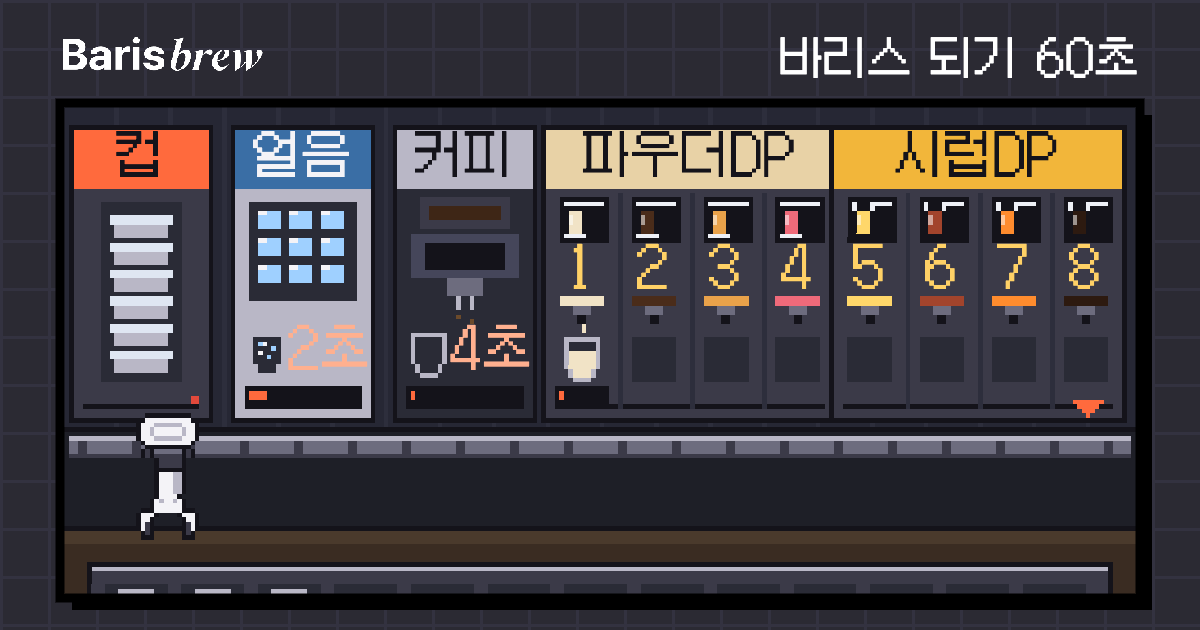
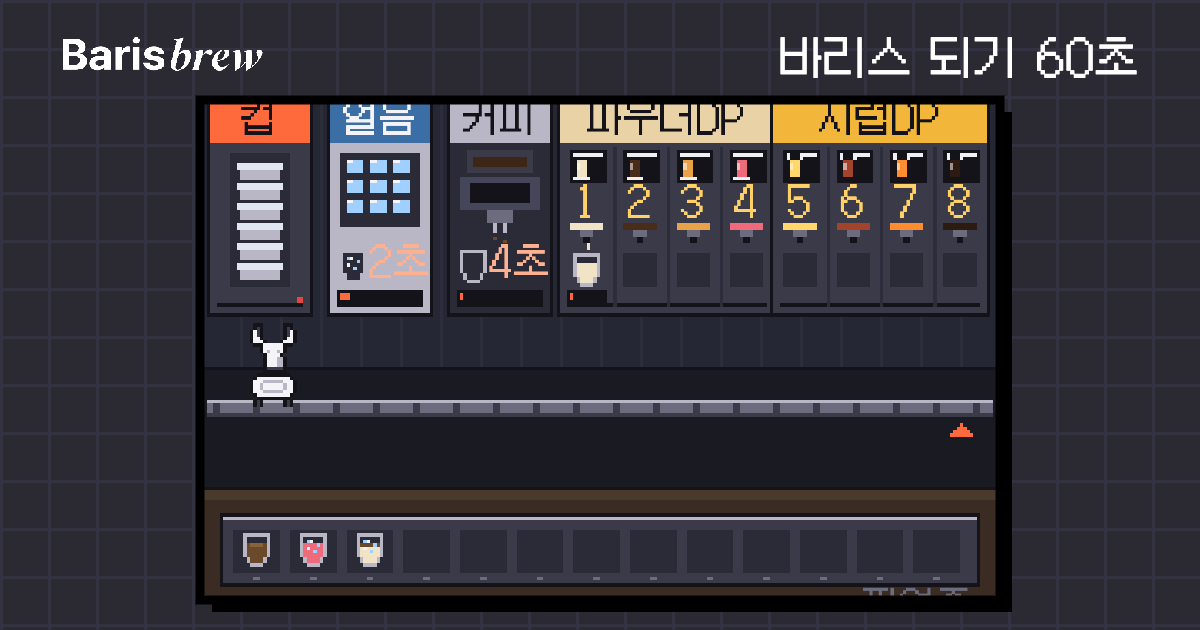
팔 포즈(기계는 위·픽업존은 아래)와 기계·레일·픽업존 간격
Claude-Session: https://claude.ai/code/session_01AAc1fRwvLSDh1RRvPRweCr

diff --git a/baris-game/index.html b/baris-game/index.html
@@ -244,7 +244,7 @@
 <canvas id="cv" width="1080" height="1350" style="display:none"></canvas>
 
 <script type="module">
-import { createGame, tick, moveTo, moveLeft, moveRight, action, serve, atStation, isBusy, matchRecipe, compatible, nextStep, patienceRatio, grade, remark, STATIONS, STATION_X, STATION_LABEL, INGREDIENTS, ING_KEYS, TIMES, newCup, isIngStation, DIFFICULTY } from './game.js?v=20261009c';
+import { createGame, tick, moveTo, moveLeft, moveRight, action, serve, atStation, isBusy, matchRecipe, compatible, nextStep, patienceRatio, grade, remark, STATIONS, STATION_X, STATION_LABEL, INGREDIENTS, ING_KEYS, TIMES, newCup, isIngStation, DIFFICULTY } from './game.js?v=20261009d';
 
 const $ = (id) => document.getElementById(id);
 const isPC = matchMedia('(hover:hover) and (pointer:fine)').matches;
@@ -257,7 +257,7 @@ const STEP_KO = (k) => k === 'ice' ? '얼음' : k === 'shot' ? '커피' : k === 
 
 /* ---------- 팔레트 · 픽셀 그리기 ---------- */
 const P = { K:'#14131a', D:'#3b3a48', G:'#6d6c7e', L:'#b9b7c6', W:'#f4f3f7', O:'#ff6a3d', o:'#ffb08f', B:'#3a6ea5', b:'#9fd0ff', Y:'#e8d2a6', y:'#ffd166', C:'#6b4a2b', c:'#3e2616', R:'#e2493b', N:'#3fb36b', S:'#f3c9a0', H:'#2b2118', h:'#c76b3c', E:'#4a5a9c', e:'#7d4c9c', T:'#2a2b36', t:'#45465a', X:'#dfe6f2', A:'#f2b63a' };
-const STAGE_W = 240, STAGE_H = 200, CW = 48, COUNTER_Y = 156, MY = 68; // MY: 기계 윗선
+const STAGE_W = 240, STAGE_H = 212, CW = 48, MY = 48, RAIL_Y = 138, COUNTER_Y = 164; // 기계 48~112 · 팔 위로 뻗는 틈 · 레일 138 · 팔 아래로 뻗는 틈 · 픽업존 164~
 const stage = $('stage');
 let sx = stage.getContext('2d');
 const px = (c, x, y, w = 1, h = 1) => { sx.fillStyle = c; sx.fillRect(x | 0, y | 0, w, h); };
@@ -266,6 +266,7 @@ function blit(map, ox, oy, pal = P) {
     const ch = map[y][x]; if (ch === '.') continue; const col = pal[ch] || P[ch]; if (col) px(col, ox + x, oy + y);
   }
 }
+function blitFlipY(map, ox, oy, pal = P) { blit([...map].reverse(), ox, oy, pal); }
 function text(str, x, y, color = P.W, align = 'left', size = 11) {
   sx.font = `${size}px Galmuri11`; sx.textBaseline = 'top'; sx.textAlign = align; sx.fillStyle = color; sx.fillText(str, x | 0, y | 0);
 }
@@ -429,11 +430,11 @@ const fx = [];
 const POWDERS = ING_KEYS.filter(k => INGREDIENTS[k].kind === 'powder'), SYRUPS = ING_KEYS.filter(k => INGREDIENTS[k].kind === 'syrup');
 function drawScene(g) {
   px('#1e1f27', 0, 0, STAGE_W, STAGE_H);
-  px('#262734', 0, 48, STAGE_W, 86);
-  for (let i = 0; i < STAGE_W; i += 12) px('#2d2e3c', i, 48, 1, 86);
-  px(P.K, 0, 134, STAGE_W, 1);
-  px(P.G, 2, 136, STAGE_W - 4, 5); px(P.L, 2, 136, STAGE_W - 4, 1); px(P.D, 2, 140, STAGE_W - 4, 1);
-  for (let i = 0; i < STAGE_W; i += 12) px(P.D, i + 4, 137, 2, 3);
+  px('#262734', 0, 48, STAGE_W, 80);
+  for (let i = 0; i < STAGE_W; i += 12) px('#2d2e3c', i, 48, 1, 80);
+  px(P.K, 0, 128, STAGE_W, 1); px('#1a1b22', 0, 129, STAGE_W, COUNTER_Y - 129);
+  px(P.G, 2, RAIL_Y, STAGE_W - 4, 5); px(P.L, 2, RAIL_Y, STAGE_W - 4, 1); px(P.D, 2, RAIL_Y + 4, STAGE_W - 4, 1);
+  for (let i = 0; i < STAGE_W; i += 12) px(P.D, i + 4, RAIL_Y + 1, 2, 3);
 
   const here = atStation(g);
   drawCupDP(0, MY, here === 'cup');
@@ -445,20 +446,24 @@ function drawScene(g) {
   drawCustomers(g);
   // 현재 칸·목표 표시
   const tx = STATION_X[g.armTarget], tw = g.armTarget < 3 ? 36 : 16;
-  if (here) px(P.O, tx - tw / 2, 133, tw, 1);
-  else { px(P.O, tx - 3, 128, 7, 1); px(P.O, tx - 2, 129, 5, 1); px(P.O, tx - 1, 130, 3, 1); px(P.O, tx, 131); }
+  if (here) px(P.O, tx - tw / 2, RAIL_Y + 6, tw, 1);
+  else { px(P.O, tx, RAIL_Y + 7); px(P.O, tx - 1, RAIL_Y + 8, 3, 1); px(P.O, tx - 2, RAIL_Y + 9, 5, 1); px(P.O, tx - 3, RAIL_Y + 10, 7, 1); }
 
   const ax = Math.round(g.armPos);
   const busy = isBusy(g), serving = busy && g.busyWith === 'serve';
   const bob = busy && !serving ? (Math.floor(g.t * 10) % 2) : 0;
-  const armLen = serving ? 12 : 5 + (busy ? 4 : 0);
-  blit(CAR, ax - 8, 131);
-  // 팔: 어깨 관절 → 상완(흰) → 팔꿈치 관절
-  px(P.K, ax - 3, 141, 7, 3); px(P.D, ax - 2, 141, 5, 2);
-  px(P.K, ax - 3, 144, 7, armLen); px(P.W, ax - 2, 144, 5, armLen); px(P.L, ax + 1, 144, 2, armLen);
-  const gy = 144 + armLen;
-  if (serving) { px(P.K, ax - 3, gy, 7, 3); px(P.D, ax - 2, gy, 5, 2); px(P.K, ax - 3, gy + 3, 7, 8); px(P.W, ax - 2, gy + 3, 5, 8); px(P.L, ax + 1, gy + 3, 2, 8); blit(GRIP, ax - 8, gy + 11); }
-  else { blit(GRIP, ax - 8, gy + bob); if (g.hand) drawCup(ax - 4, gy + 4 + bob, g.hand); }
+  // 팔: 기계 작업·대기 땐 위(뒤쪽 기계)로, 서빙 땐 아래(앞 픽업존)로 뻗는다
+  blit(CAR, ax - 8, RAIL_Y - 8);
+  const seg = (y0, len) => { px(P.K, ax - 3, y0, 7, len); px(P.W, ax - 2, y0, 5, len); px(P.L, ax + 1, y0, 2, len); };
+  const joint = (y0) => { px(P.K, ax - 3, y0, 7, 3); px(P.D, ax - 2, y0, 5, 2); };
+  if (serving) {
+    const len = 12; joint(RAIL_Y + 2); seg(RAIL_Y + 5, len); const gy = RAIL_Y + 5 + len;
+    blit(GRIP, ax - 8, gy); // 손가락 아래, 컵을 카운터에 내려놓는 중
+  } else {
+    const len = 3 + (busy ? 6 : 0) + bob; const top = RAIL_Y - 10 - len;
+    joint(RAIL_Y - 11); seg(top, len); blitFlipY(GRIP, ax - 8, top - 10); // 손가락 위
+    if (g.hand) drawCup(ax - 4, top - 11, g.hand);
+  }
 
   for (let i = fx.length - 1; i >= 0; i--) { const f = fx[i]; f.y -= 0.3; f.ttl -= 1 / 60; if (f.ttl <= 0) { fx.splice(i, 1); continue; } text(f.text, f.x, f.y, f.color, 'center'); }
 }
@@ -523,7 +528,7 @@ const STAGE_TOP = 48; // 주문 카드는 HTML로 빠졌으니 캔버스는 그 
 function fitStage() {
   sx = setupCanvas(stage, STAGE_W, STAGE_H - STAGE_TOP); sx.translate(0, -STAGE_TOP);
   drawScene(g || createGame({ firstOrderAt: 999 }));
-  if (titleTimer) { const bg = $('tbg'); if (bg.clientWidth) setupCanvas(bg, STAGE_W, 110); }
+  if (titleTimer) { const bg = $('tbg'); if (bg.clientWidth) setupCanvas(bg, STAGE_W, 150); }
 }
 function iconCanvas(kind, scale = 2) { const c = document.createElement('canvas'); c.width = ICON_W; c.height = 10; c.style.width = ICON_W * scale + 'px'; c.style.height = 10 * scale + 'px'; stepIcon(c.getContext('2d'), kind, 0, 0, ''); return c; }
 function buildLegend() {
@@ -552,7 +557,7 @@ let titleTimer = null, menuSel = 0;
 function showScreen(id) { ['tMain', 'tHow', 'tSettings', 'tCredits'].forEach(k => $(k).classList.toggle('on', k === id)); if (id === 'tSettings') renderSettings(); }
 function titleOn() {
   $('start').classList.add('on'); $('end').classList.remove('on'); showScreen('tMain'); setMenu(0);
-  const bg = $('tbg'); const bc = setupCanvas(bg, STAGE_W, 110);
+  const bg = $('tbg'); const bc = setupCanvas(bg, STAGE_W, 150);
   const g0 = createGame({ firstOrderAt: 999 }); g0.t = 0; g0.cfg.patience = 25;
   g0.slots.ice = { cup: { ice: true, shot: false, ings: [] }, readyAt: 1.5 }; g0.slots.coffee = { cup: newCup(), readyAt: 4 }; g0.slots.milk = { cup: { ice: false, shot: false, ings: ['milk'] }, readyAt: 2.5 };
   g0.trail = [{ kind: 'served', recipe: { ice: false, shot: true, ings: [] } }, { kind: 'served', recipe: { ice: true, shot: false, ings: ['grape'] } }, { kind: 'served', recipe: { ice: true, shot: true, ings: ['milk'] } }];
@@ -560,11 +565,11 @@ function titleOn() {
   clearInterval(titleTimer);
   titleTimer = setInterval(() => {
     g0.t += 1 / 30;
-    g0.armTarget = tgt; const tx = STATION_X[tgt]; const d = tx - g0.armPos; const step = 25 / 30;
+    g0.armTarget = tgt; const tx = STATION_X[tgt]; const d = tx - g0.armPos; const step = 25 / 30; g0.busyUntil = (Math.floor(g0.t) % 4 === 1) ? g0.t + 1 : 0; g0.busyWith = (Math.floor(g0.t) % 8 === 5) ? 'serve' : 'put';
     if (Math.abs(d) <= step) { g0.armPos = tx; if (Math.random() < 0.02) { tgt = Math.floor(Math.random() * STATIONS.length); } }
     else g0.armPos += Math.sign(d) * step;
     for (const k of ['ice', 'coffee', 'milk']) { const sl = g0.slots[k]; if (sl && g0.t > sl.readyAt + 3) sl.readyAt = g0.t + (k === 'coffee' ? 4 : 2.5); }
-    const prev = sx; sx = bc; bc.save(); bc.clearRect(0, 0, STAGE_W, 200); bc.translate(0, -62); drawScene(g0); bc.restore(); sx = prev;
+    const prev = sx; sx = bc; bc.save(); bc.clearRect(0, 0, STAGE_W, 212); bc.translate(0, -48); drawScene(g0); bc.restore(); sx = prev;
   }, 1000 / 30);
 }
 function titleOff() { clearInterval(titleTimer); titleTimer = null; $('start').classList.remove('on'); }

diff --git a/docs/superpowers/specs/2026-10-08-baris-game-design.md b/docs/superpowers/specs/2026-10-08-baris-game-design.md
@@ -57,6 +57,7 @@
 - 결과 PNG: 폰트 로드 대기·폴백, 세로 배치를 내용 길이에 맞춰 계산, 긴 문장 줄바꿈(기존엔 사실 문구가 카드 밖으로 넘침). iOS 등 download 미지원 환경은 이미지 화면을 띄워 길게 눌러 저장.
 - 재료 8종에 번호 1~8을 붙여 아이콘 배지·노즐 위 큰 숫자·PC 키·모바일 현재 칸 표시에 같이 씀 — 색만으로는 구분이 어렵다는 피드백. 「샷」 명칭은 「커피」로. 로봇팔·그리퍼 스프라이트를 관절 있는 도트로 다시 그림.
 - 모바일 이동은 정거장 버튼 11개 대신 ◀ ▶ 한 칸 이동 버튼 + 가운데 「지금 어디」 표시(사용자 요청). 화면 탭은 보조.
+- 팔 포즈: 기계 작업·대기·이동 땐 레일 위쪽(뒤 기계)으로 그리퍼가 위를 보고 뻗고, 서빙 땐 레일 아래(앞 픽업존)로 뻗는다(사용자 지적). 그 틈을 위해 세로 배치를 기계 48~112 · 레일 138 · 픽업존 164~212로 벌림.
 - `game.js` import에 버전 쿼리(`?v=…`)를 붙여 브라우저가 옛 로직을 캐시하지 않게 함 — 로직 바꿀 때마다 올릴 것.
 
 ## 결과 화면 홍보 링크 (2026-10-09 사용자 요청)
